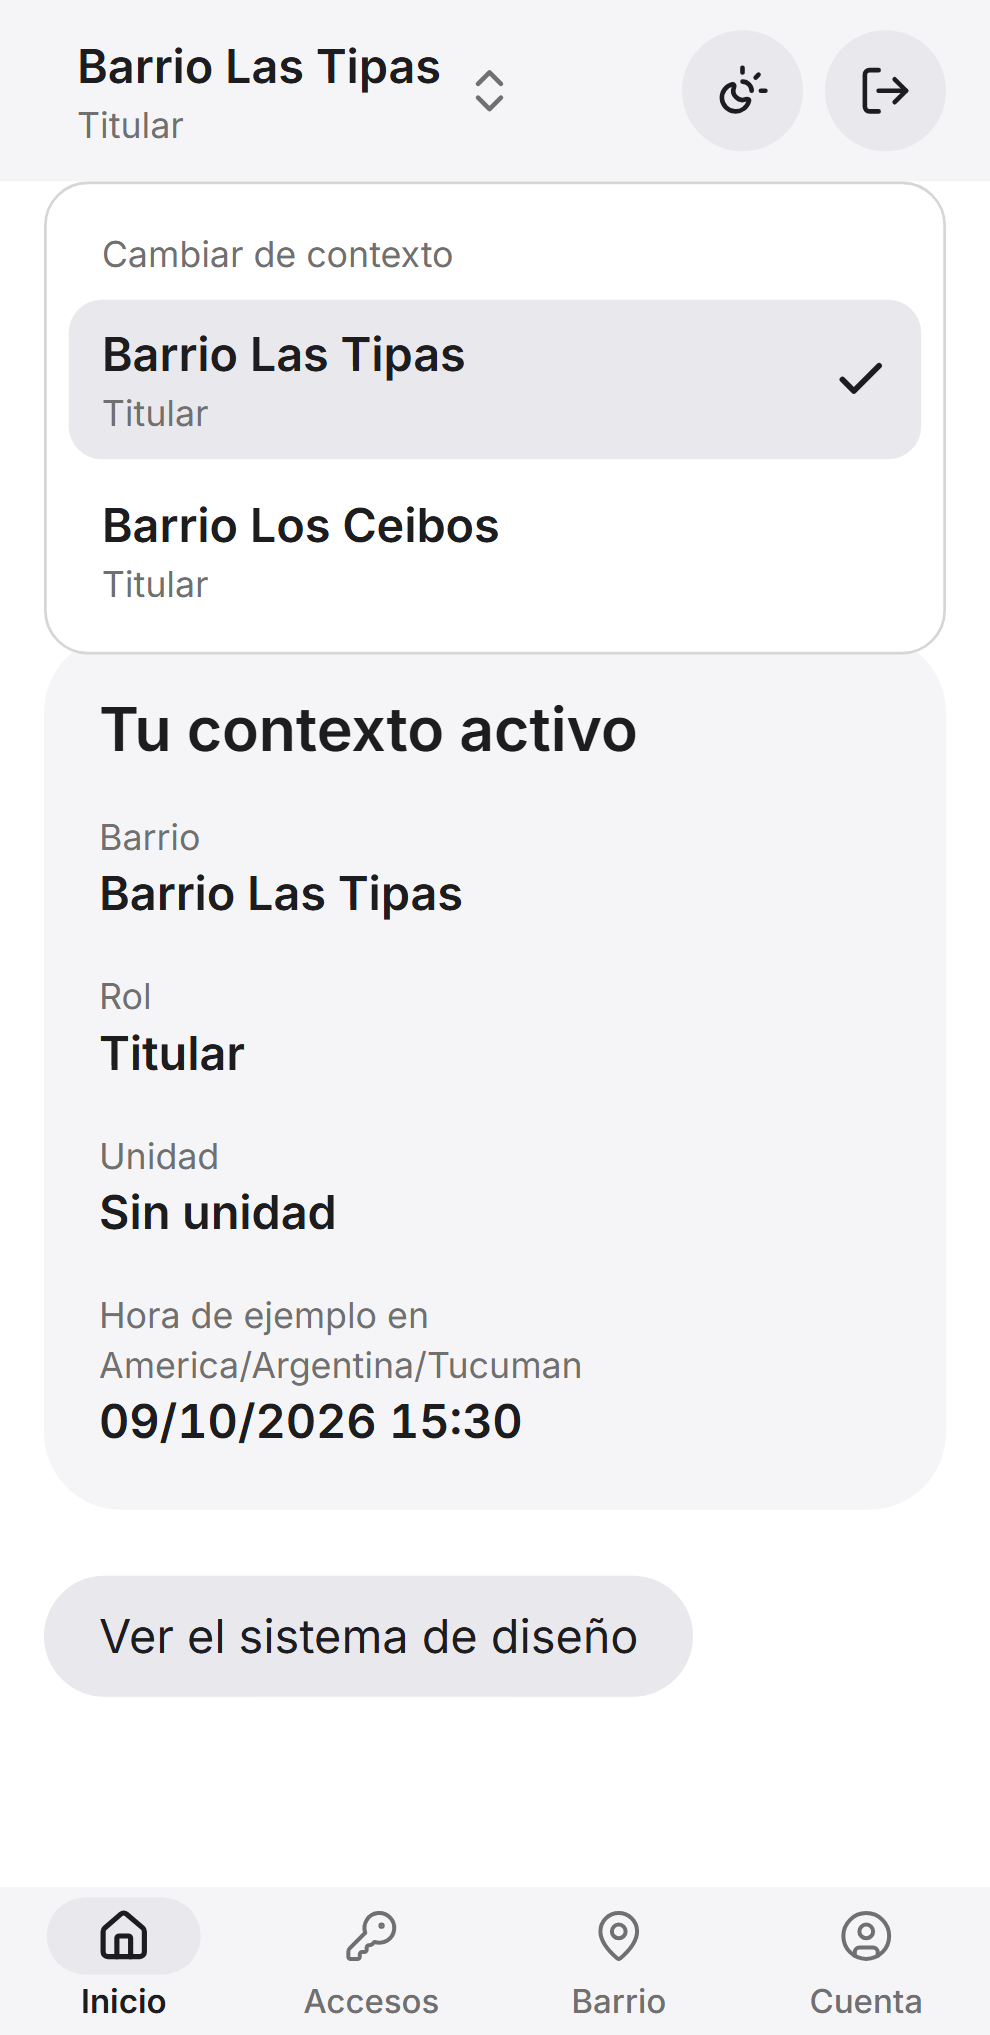
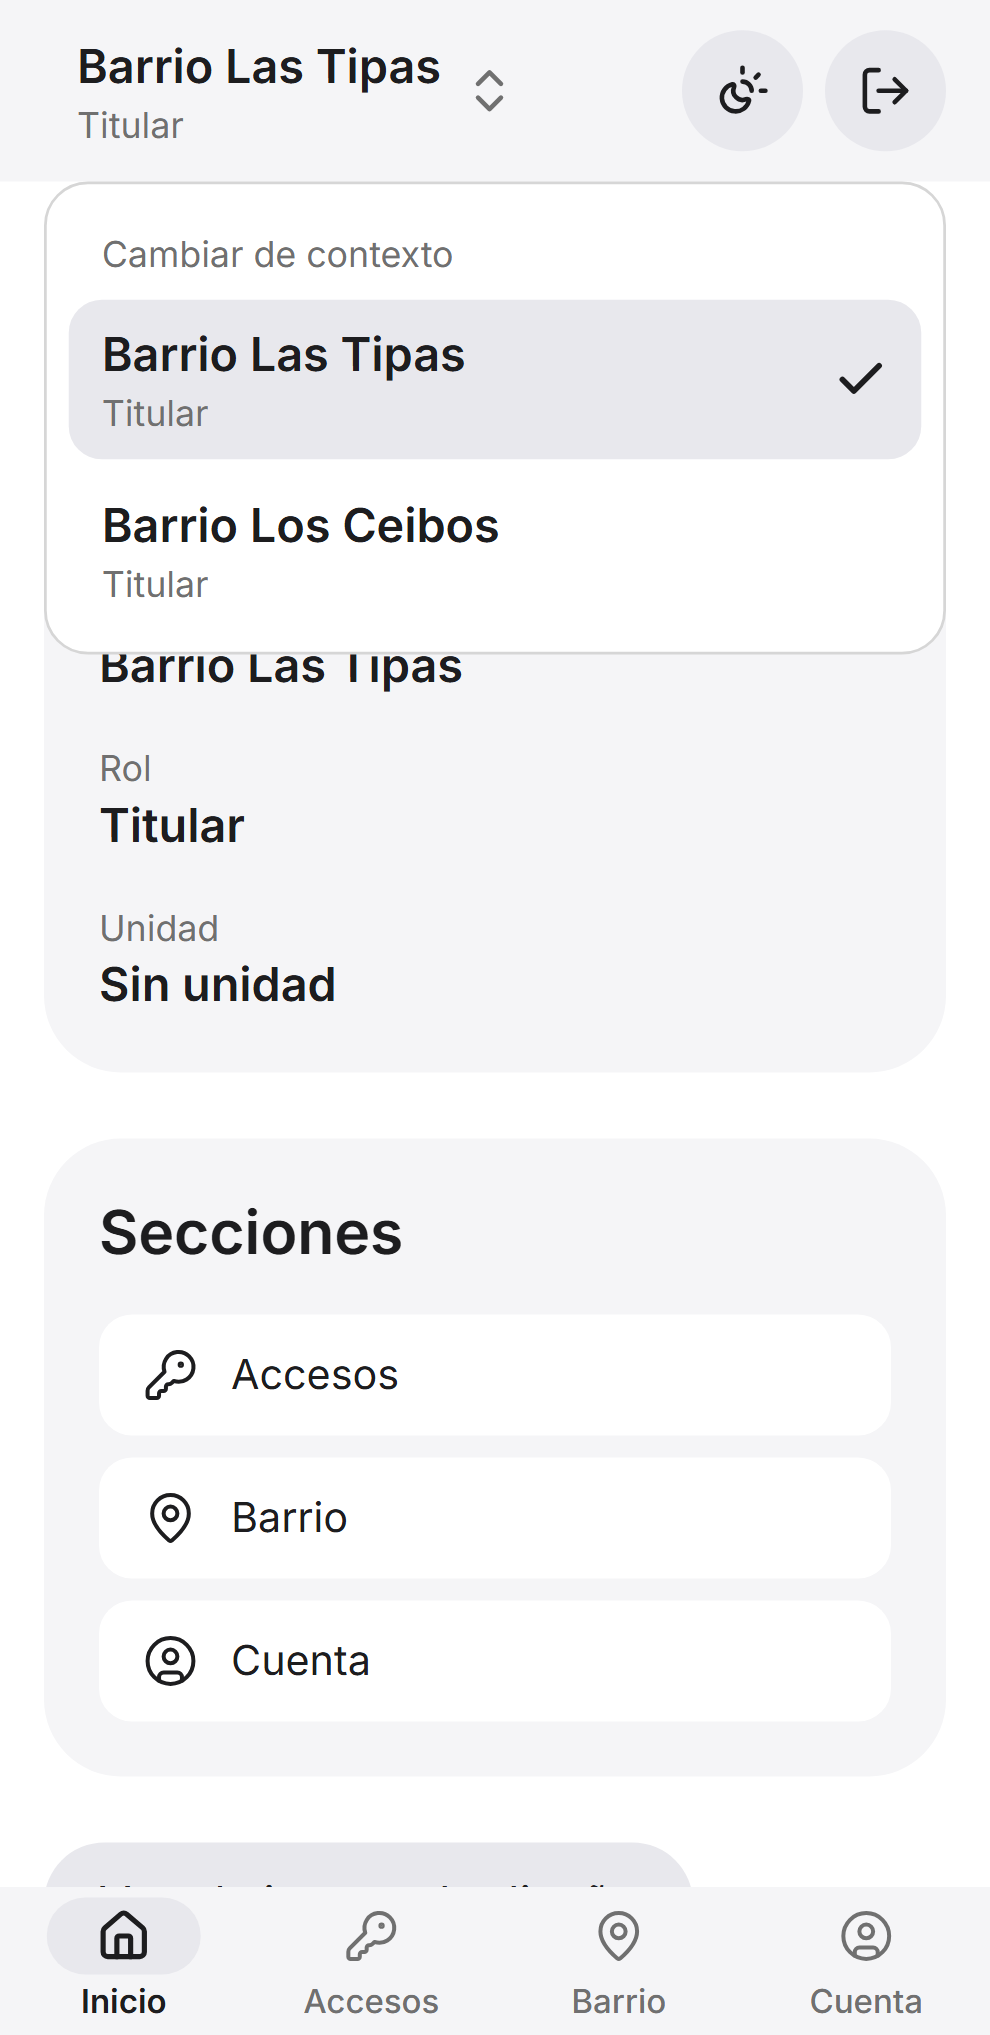
M00-F03: keep InfoButton popover on screen, refresh h0 screenshots and add HR-00 fixes report

diff --git a/apps/web/src/components/ui/info-button.tsx b/apps/web/src/components/ui/info-button.tsx
@@ -1,34 +1,46 @@
 'use client';
 
 import { Info } from 'lucide-react';
-import { useId } from 'react';
+import { useId, useState } from 'react';
 import type { ReactNode } from 'react';
 import { cn } from '@/lib/cn';
 import { usePopover } from './use-popover';
+
+const POPOVER_MAX_WIDTH = 320;
+const POPOVER_MARGIN = 16;
 
 export interface InfoButtonProps {
   /** Accessible name of the button (for example "Más información sobre los colores"). */
   label: string;
   /** Help text shown in the popover. */
   children: ReactNode;
-  /** Which edge of the button the popover lines up with; use `end` near the right edge of the screen. */
-  align?: 'start' | 'end';
   className?: string;
 }
 
 /**
  * Icon "i" button that opens a popover with help text, so screens don't carry permanent explanations (DESIGN.md
  * §A.9). Opens on click, tap or keyboard; closes on Escape (focus returns to the button), on an outside press and
- * when focus leaves.
+ * when focus leaves. The popover lines up with the button's left edge, or its right edge when that would run off
+ * the screen.
  */
-export function InfoButton({
-  label,
-  children,
-  align = 'start',
-  className,
-}: InfoButtonProps) {
+export function InfoButton({ label, children, className }: InfoButtonProps) {
   const { open, toggle, triggerRef, rootProps } = usePopover();
   const panelId = useId();
+  const [alignEnd, setAlignEnd] = useState(false);
+
+  const onClick = () => {
+    if (!open && triggerRef.current) {
+      const panelWidth = Math.min(
+        POPOVER_MAX_WIDTH,
+        window.innerWidth - 2 * POPOVER_MARGIN,
+      );
+      setAlignEnd(
+        triggerRef.current.getBoundingClientRect().left + panelWidth >
+          window.innerWidth - POPOVER_MARGIN,
+      );
+    }
+    toggle();
+  };
 
   return (
     <div {...rootProps} className={cn('relative inline-flex', className)}>
@@ -38,7 +50,7 @@ export function InfoButton({
         aria-label={label}
         aria-expanded={open}
         aria-controls={open ? panelId : undefined}
-        onClick={toggle}
+        onClick={onClick}
         className="inline-flex size-(--control-height) shrink-0 cursor-pointer items-center justify-center rounded-full text-text-secondary transition-colors duration-(--duration-ui) hover:bg-surface-2 hover:text-text-primary"
       >
         <Info aria-hidden="true" className="size-5" strokeWidth={2} />
@@ -51,7 +63,7 @@ export function InfoButton({
           aria-label={label}
           className={cn(
             'absolute top-full z-40 mt-1 w-[min(20rem,calc(100vw-2rem))] rounded-card-dense border border-hairline bg-surface-0 p-4 text-app-body-dense text-text-primary',
-            align === 'end' ? 'right-0' : 'left-0',
+            alignEnd ? 'right-0' : 'left-0',
           )}
         >
           {children}

diff --git a/apps/web/e2e/design.spec.ts b/apps/web/e2e/design.spec.ts
@@ -56,6 +56,13 @@ test.describe('/design', () => {
     await button.click();
     await expect(help).toBeVisible();
     await expect(button).toHaveAttribute('aria-expanded', 'true');
+    // The popover stays on screen even when the button sits near the right edge.
+    const helpBox = await help.boundingBox();
+    const viewport = page.viewportSize();
+    expect(helpBox?.x).toBeGreaterThanOrEqual(0);
+    expect((helpBox?.x ?? 0) + (helpBox?.width ?? 0)).toBeLessThanOrEqual(
+      viewport?.width ?? 0,
+    );
 
     await page.keyboard.press('Escape');
     await expect(help).toBeHidden();

diff --git a/reports/HR-00-fixes.md b/reports/HR-00-fixes.md
@@ -1,0 +1,39 @@
+# HR-00 fixes (T7): reviewer feedback C1–C4
+
+Branch `JI-Serra/h0-t7-hr00-fixes`. No schema, migration, `packages/observability` or CI changes.
+
+## Mapping
+
+| # | Change | Commit |
+|---|---|---|
+| C1 gate switch | `Switch` now wraps input, track and text in one `<label>`; the `description` prop was removed. `usePopover` moved to `components/ui`. Component tests click the visible track (`ui.test.tsx`, `theme.test.tsx` asserts `data-mode="gate"` on `<html>`); e2e `design.spec.ts` toggles from the track, the text and with Space, and checks persistence. Other checkbox/radio inputs: only `SegmentedControl` (already inside its `<label>`). | `606f09e` M00-F02 |
+| C4 minimal text + InfoButton | New `components/ui/info-button.tsx` (lucide `Info`, 44 px target, accessible name, `aria-expanded`/`aria-controls`, opens on click/tap/Enter/Space, closes on Escape with focus back on the button, on outside press and on focus leaving; auto-aligns so it never leaves the screen). Shown on `/design` (page header and every section title). `Field` takes `info={{ label, text }}` instead of `hint`. Removed: page and section descriptions, login/recover/reset subtitles, magic-link hint, field hints, design notes, `gateDescription`, `home.description`, placeholder description. Useful help moved into InfoButtons (design sections, password requirements). Unused message keys deleted. Kept: titles, labels, values, actions, error and status messages (incl. "no barrio" empty state). | `606f09e` M00-F02 |
+| C3 use the screen | App shell `<main>` is no longer centered (`mx-auto` removed): content starts at the sidebar gutter (24 px from `lg`, 16 px on mobile), max width 1200 px left-aligned. Home: context card + new "Secciones" shortcuts card (role-based links from `navigation.ts`) in a two-column grid from `lg`; "Hora de ejemplo" demo row removed (formatting is still shown in `/design`). Placeholder pages sit inside a left-aligned card. Checked at 360 / 1024 / 1440. | `5c87fc6` M00-F03 |
+| C2 English routes | `app/(auth)/ingresar` → `login`, `recuperar` → `forgot-password`, `restablecer` → `reset-password`; proxy lists, `redirect.ts`, layout/action redirects, callback error redirect, `emailRedirectTo` / recovery `next`, links, unit + e2e tests, `playwright.config.ts`, README and HR-00 guide paths (the reviewer's C2 row keeps the old names as the historical record). Sections (`/access`, `/registry`, …), `/auth/callback`, `?next=` and `?error=` were already English. `supabase/config.toml` needs no change: `additional_redirect_urls` are globs (`/**`) and `site_url` is the origin. | `2cf39e8` M00-F04 |
+| Screenshots | Whole `docs/screenshots/h0/` set regenerated by the extended `screenshots.spec.ts` (design and home shell × light/dark/gate/gate-dark, login, info button open, context selector; 360 and 1440). Removed the 2 obsolete `shell-*-context-switcher` images (covered by `context-selector-*`); guide count updated. | final commit |
+
+## Before / after
+
+- Switch: before, only the "Modo garita" text toggled; now track, knob and text do, and Space works.
+- Routes: `/ingresar`, `/recuperar`, `/restablecer` → `/login`, `/forgot-password`, `/reset-password`.
+- Home at 1440: before, a narrow card in a wide empty area under a description; now two cards side by side from the gutter, no paragraph.
+- Login: title + fields, no subtitle or hint.
+
+## Acceptance
+
+| Check | Result |
+|---|---|
+| `pnpm lint` | pass (6 tasks) |
+| `pnpm typecheck` | pass (6 tasks) |
+| `pnpm test` | pass: web 141, domain 50, supabase 15, observability 30, ui-tokens 26 |
+| `pnpm build` | pass; routes `/login`, `/forgot-password`, `/reset-password`, `/design`, `/[section]`, `/auth/callback` |
+| `pnpm test:e2e` | 48 passed, 22 skipped (the opt-in screenshot specs); includes new `design.spec.ts` (4 = 2 tests × 2 viewports) |
+| Screenshots (`E2E_SCREENSHOTS=1 … screenshots`) | 22 passed |
+| Spanish path grep | `grep -rnE "ingresar\|recuperar\|restablecer" apps/web/src apps/web/e2e apps/web/playwright.config.ts README.md supabase/config.toml` → no matches |
+
+## Notes
+
+- Older reports (`reports/M00-*.md`) still mention the old routes; they are historical.
+- The info button replaces the design page's permanent descriptions; the info text keeps their content.
+- The login/forgot/reset pages remain a centered card (standard for auth, outside the app shell).
+- `apps/web/.env.local` was created locally from `supabase status` (git-ignored) to run build/e2e.
